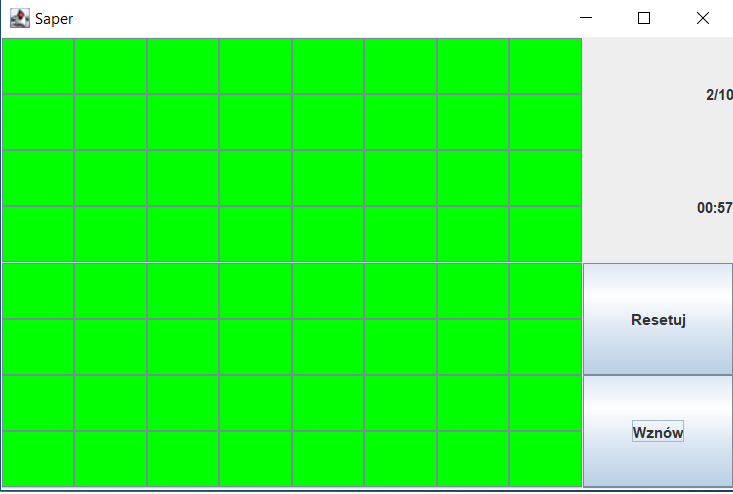
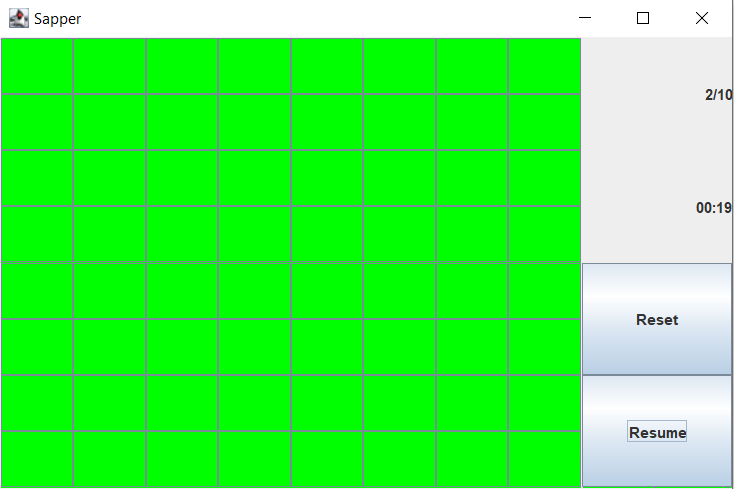
translate app

diff --git a/src/main/java/pl/pp/sapper/MainFrame.java b/src/main/java/pl/pp/sapper/MainFrame.java
@@ -10,7 +10,7 @@ public class MainFrame extends JFrame {
 
     public MainFrame() {
         setDefaultCloseOperation(WindowConstants.EXIT_ON_CLOSE);
-        setTitle("Saper");
+        setTitle("Sapper");
         setBounds(100, 100, 600, 400);
 
         JPanel fieldsPanel = new JPanel();
@@ -36,13 +36,13 @@ public class MainFrame extends JFrame {
 
         bombInfoLabel = new JLabel(0 + "/" + bombAmounts, JLabel.RIGHT);
         timeInfoLabel = new JLabel("00:00", JLabel.RIGHT);
-        JButton resetButton = new JButton("Resetuj");
-        stopButton = new JButton("Zatrzymaj");
+        JButton resetButton = new JButton("Reset");
+        stopButton = new JButton("Stop");
 
 
         resetButton.addActionListener(actionEvent -> {
             int resultReset = JOptionPane.showConfirmDialog
-                    (this, "Czy chcesz zresetować grę", "Reset gry", JOptionPane.YES_NO_OPTION);
+                    (this, "Do you want reset the game?", "Game reset", JOptionPane.YES_NO_OPTION);
             if ( resultReset == 0 ) {
                 resetGame();
             }
@@ -52,12 +52,12 @@ public class MainFrame extends JFrame {
         stopButton.addActionListener(actionEvent -> {
             if ( gameRunning ) {
                 timer.stop();
-                stopButton.setText("Wznów");
+                stopButton.setText("Resume");
                 gameRunning = false;
                 buttonFieldList.forEach(ButtonField::stopShow);
             } else {
                 timer.start();
-                stopButton.setText("Zatrzymaj");
+                stopButton.setText("Stop");
                 gameRunning = true;
                 buttonFieldList.forEach(ButtonField::startShow);
             }

diff --git a/src/main/java/pl/pp/sapper/ButtonField.java b/src/main/java/pl/pp/sapper/ButtonField.java
@@ -98,7 +98,7 @@ public class ButtonField extends JButton {
             timer.stop();
             setText(bombCharacter);
             setBackground(Color.RED);
-            JOptionPane.showMessageDialog(mainFrame, "Przegrałeś!", "Koniec gry", JOptionPane.ERROR_MESSAGE);
+            JOptionPane.showMessageDialog(mainFrame, "You lost the game!", "Game over", JOptionPane.ERROR_MESSAGE);
             resetGame();
         } else if ( neighborBombAmount == 0 ) {
             setBackground(Color.LIGHT_GRAY);
@@ -112,7 +112,7 @@ public class ButtonField extends JButton {
         if ( isWin() ) {
             timer.stop();
             stopButton.setEnabled(false);
-            JOptionPane.showMessageDialog(mainFrame, "Gratulacje! Wygrałeś!");
+            JOptionPane.showMessageDialog(mainFrame, "Congratulations! You won!");
             stopRoll = true;
             resetGame();
 
